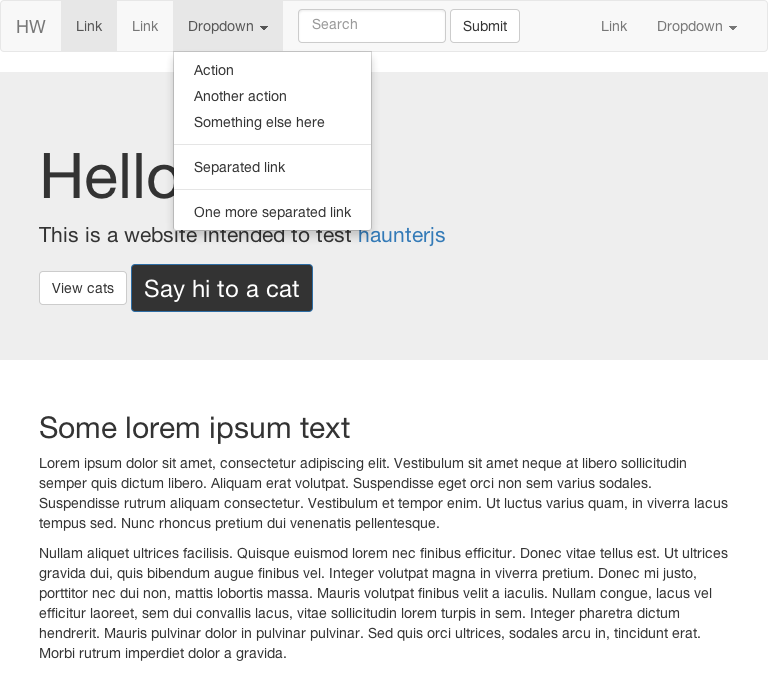
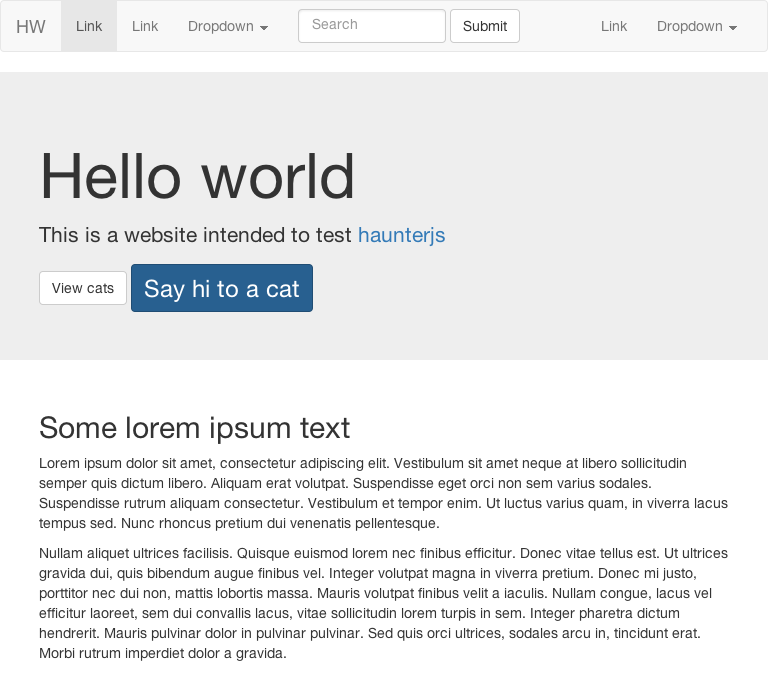
Add mouseover and evaluate methods

Changed region(s): [[0.1562, 0.2184, 0.4688, 0.4681], [0.25, 0.0936, 0.4062, 0.1872], [0.25, 0.0312, 0.3125, 0.0624]]

diff --git a/haunter.js b/haunter.js
@@ -236,6 +236,32 @@ haunter._saveResults = function(){
 }
 
 /**
+ * Put the mouse over some element
+ * @param  {String} cssSelector - CSS selector for the element to mouseover
+ */
+haunter.mouseover = function(cssSelector){
+
+	casper.then( function(){
+		casper.waitForSelector(cssSelector, function success(){
+			casper.mouse.move(cssSelector);
+		}, function fail(){
+			haunter.selectorNotFound(cssSelector);
+		});
+	});
+
+}
+
+/**
+ * Evaluate some js code on the browser
+ * @param  {function} actions Js code to evaluate
+ */
+haunter.evaluate = function(actions){
+	casper.then( function(){
+		casper.evaluate(actions)
+	});
+}
+
+/**
  *  Proceed to compare the screenshots and figure out if there are errors
  */
 haunter.end = function(){
@@ -300,8 +326,10 @@ module.exports = {
 	snap: haunter.snap,
 	snapExcluding: haunter.snapExcluding,
 	click: haunter.click,
+	mouseover: haunter.mouseover,
 	sendKeys: haunter.sendKeys,
 	pressEnter: haunter.pressEnter,
+	evaluate: haunter.evaluate,
 	end: haunter.end,
 	exec: haunter.exec
 };

diff --git a/demo-tests/home.js b/demo-tests/home.js
@@ -1,6 +1,8 @@
 var haunter = require('../haunter.js');
 haunter.start('home', 'Take a look at the home page');
 haunter.snap('body', 'Make sure Hello World message is correct');
+haunter.mouseover('.btn-primary');
+haunter.snap('body', 'Hover on primary button');
 haunter.click('.dropdown-toggle');
 haunter.snap('body', 'Open dropdown menu');
 haunter.sendKeys('#search', 'How to cat');
